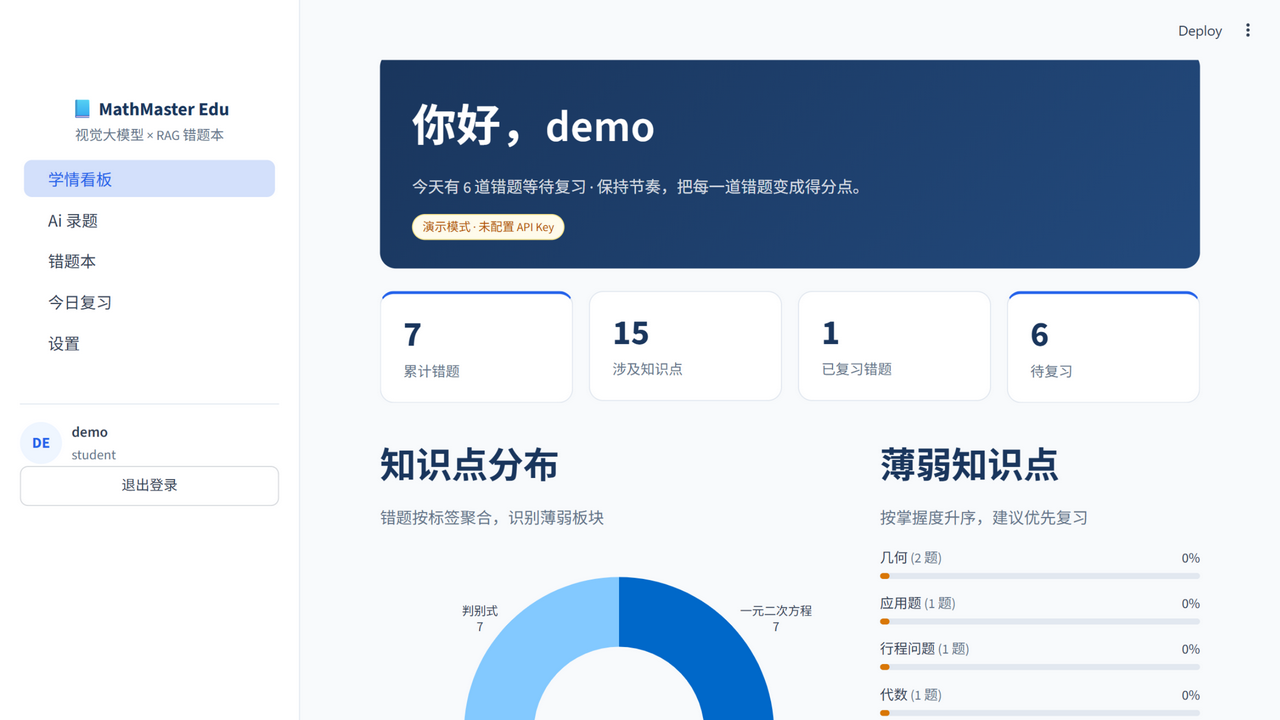
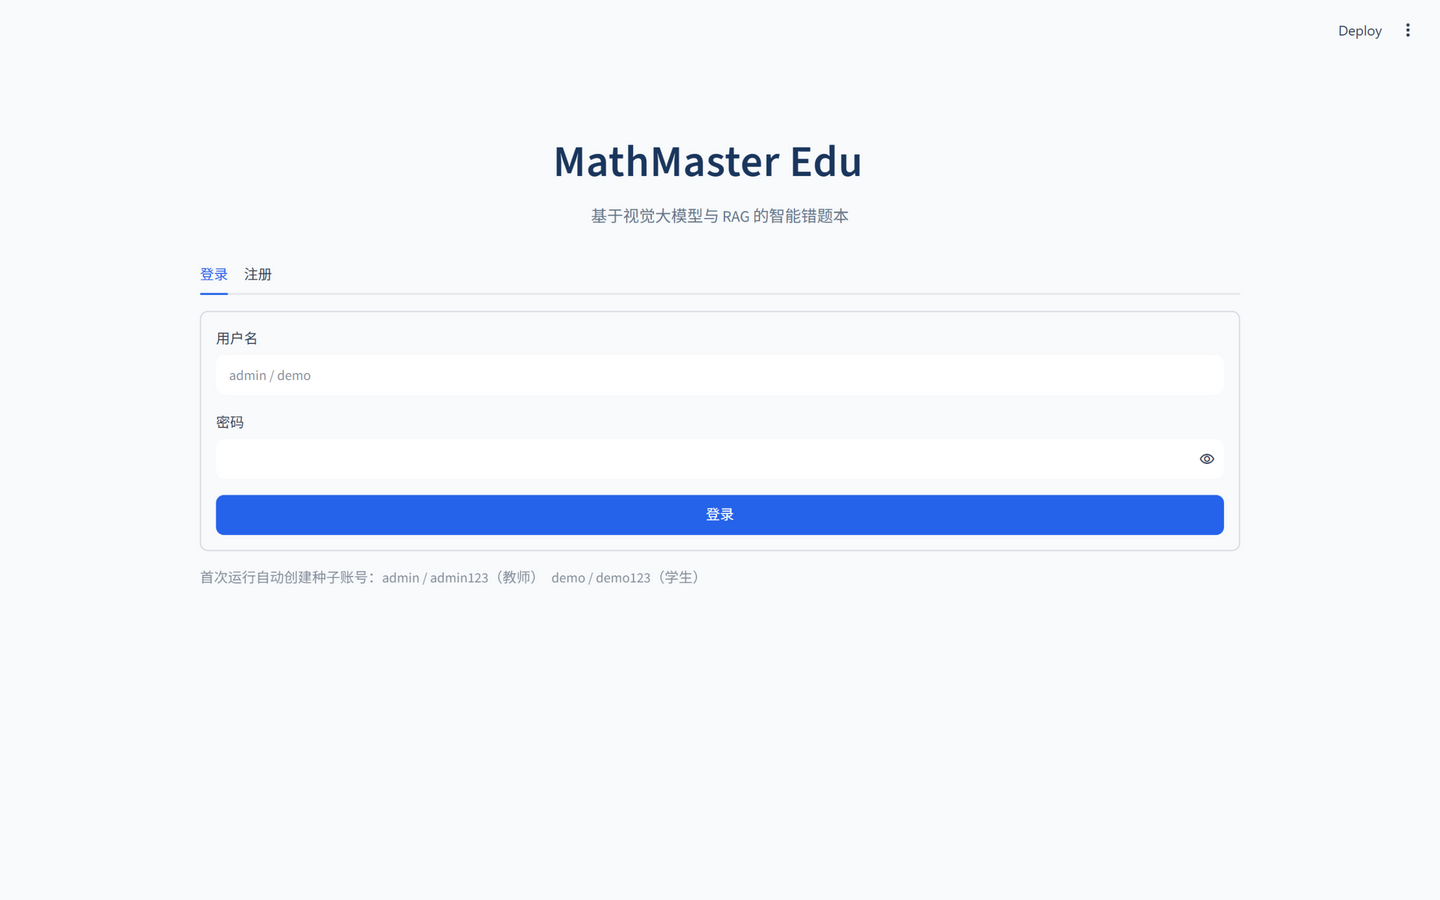
feat(ux): dashboard tag bar chart with click-to-filter, notebook due badges, mobile sidebar

diff --git a/frontend/pages/dashboard.py b/frontend/pages/dashboard.py
@@ -12,11 +12,11 @@ _MASTERY_COLORS = {"weak": "#d97706", "mid": "#2563eb", "good": "#059669"}
 
 
 def _picked_tag(event) -> str | None:
-    """从 plotly on_select 事件里取被点击扇区的标签。"""
+    """从 plotly on_select 事件里取被点击色条/扇区对应的标签。"""
     selection = getattr(event, "selection", None)
     points = getattr(selection, "points", None) if selection else None
     for point in points or []:
-        for key in ("customdata", "label", "name"):
+        for key in ("y", "label", "customdata", "name"):
             value = point.get(key) if isinstance(point, dict) else getattr(point, key, None)
             if value:
                 return str(value[0] if isinstance(value, list) else value)
@@ -69,28 +69,33 @@ def render_dashboard(user: dict) -> None:
 
     chart_col, weak_col = st.columns([3, 2])
     with chart_col:
-        page_header("知识点分布", "错题按标签聚合 · 点击扇区直达该知识点的错题")
+        page_header("知识点分布", "错题按标签聚合 · 点击色条直达该知识点的错题")
         if stats["tag_stats"]:
             top = stats["tag_stats"][:8]
-            pie = px.pie(
-                names=[s.tag for s in top],
-                values=[s.count for s in top],
-                hole=0.55,
-                custom_data=[s.tag for s in top],
+            bar_fig = px.bar(
+                x=[s.count for s in top],
+                y=[s.tag for s in top],
+                orientation="h",
+                labels={"x": "错题数", "y": ""},
+                color=[s.count for s in top],
+                color_continuous_scale=["#bfdbfe", "#2563eb"],
             )
-            pie.update_traces(textposition="outside", textinfo="label+value")
-            pie.update_layout(
+            bar_fig.update_layout(
                 showlegend=False,
-                margin=dict(t=30, b=20, l=20, r=20),
-                height=360,
+                coloraxis_showscale=False,
+                margin=dict(t=10, b=10, l=10, r=20),
+                height=max(280, 44 * len(top)),
                 paper_bgcolor="rgba(0,0,0,0)",
+                plot_bgcolor="rgba(0,0,0,0)",
                 font=dict(family="sans-serif", color="#334155"),
+                xaxis=dict(showgrid=False, title=""),
             )
+            bar_fig.update_yaxes(autorange="reversed")
             event = st.plotly_chart(
-                pie,
+                bar_fig,
                 use_container_width=True,
                 on_select="rerun",
-                key="tag_pie",
+                key="tag_bar",
                 config={"displayModeBar": False},
             )
             clicked = _picked_tag(event)
